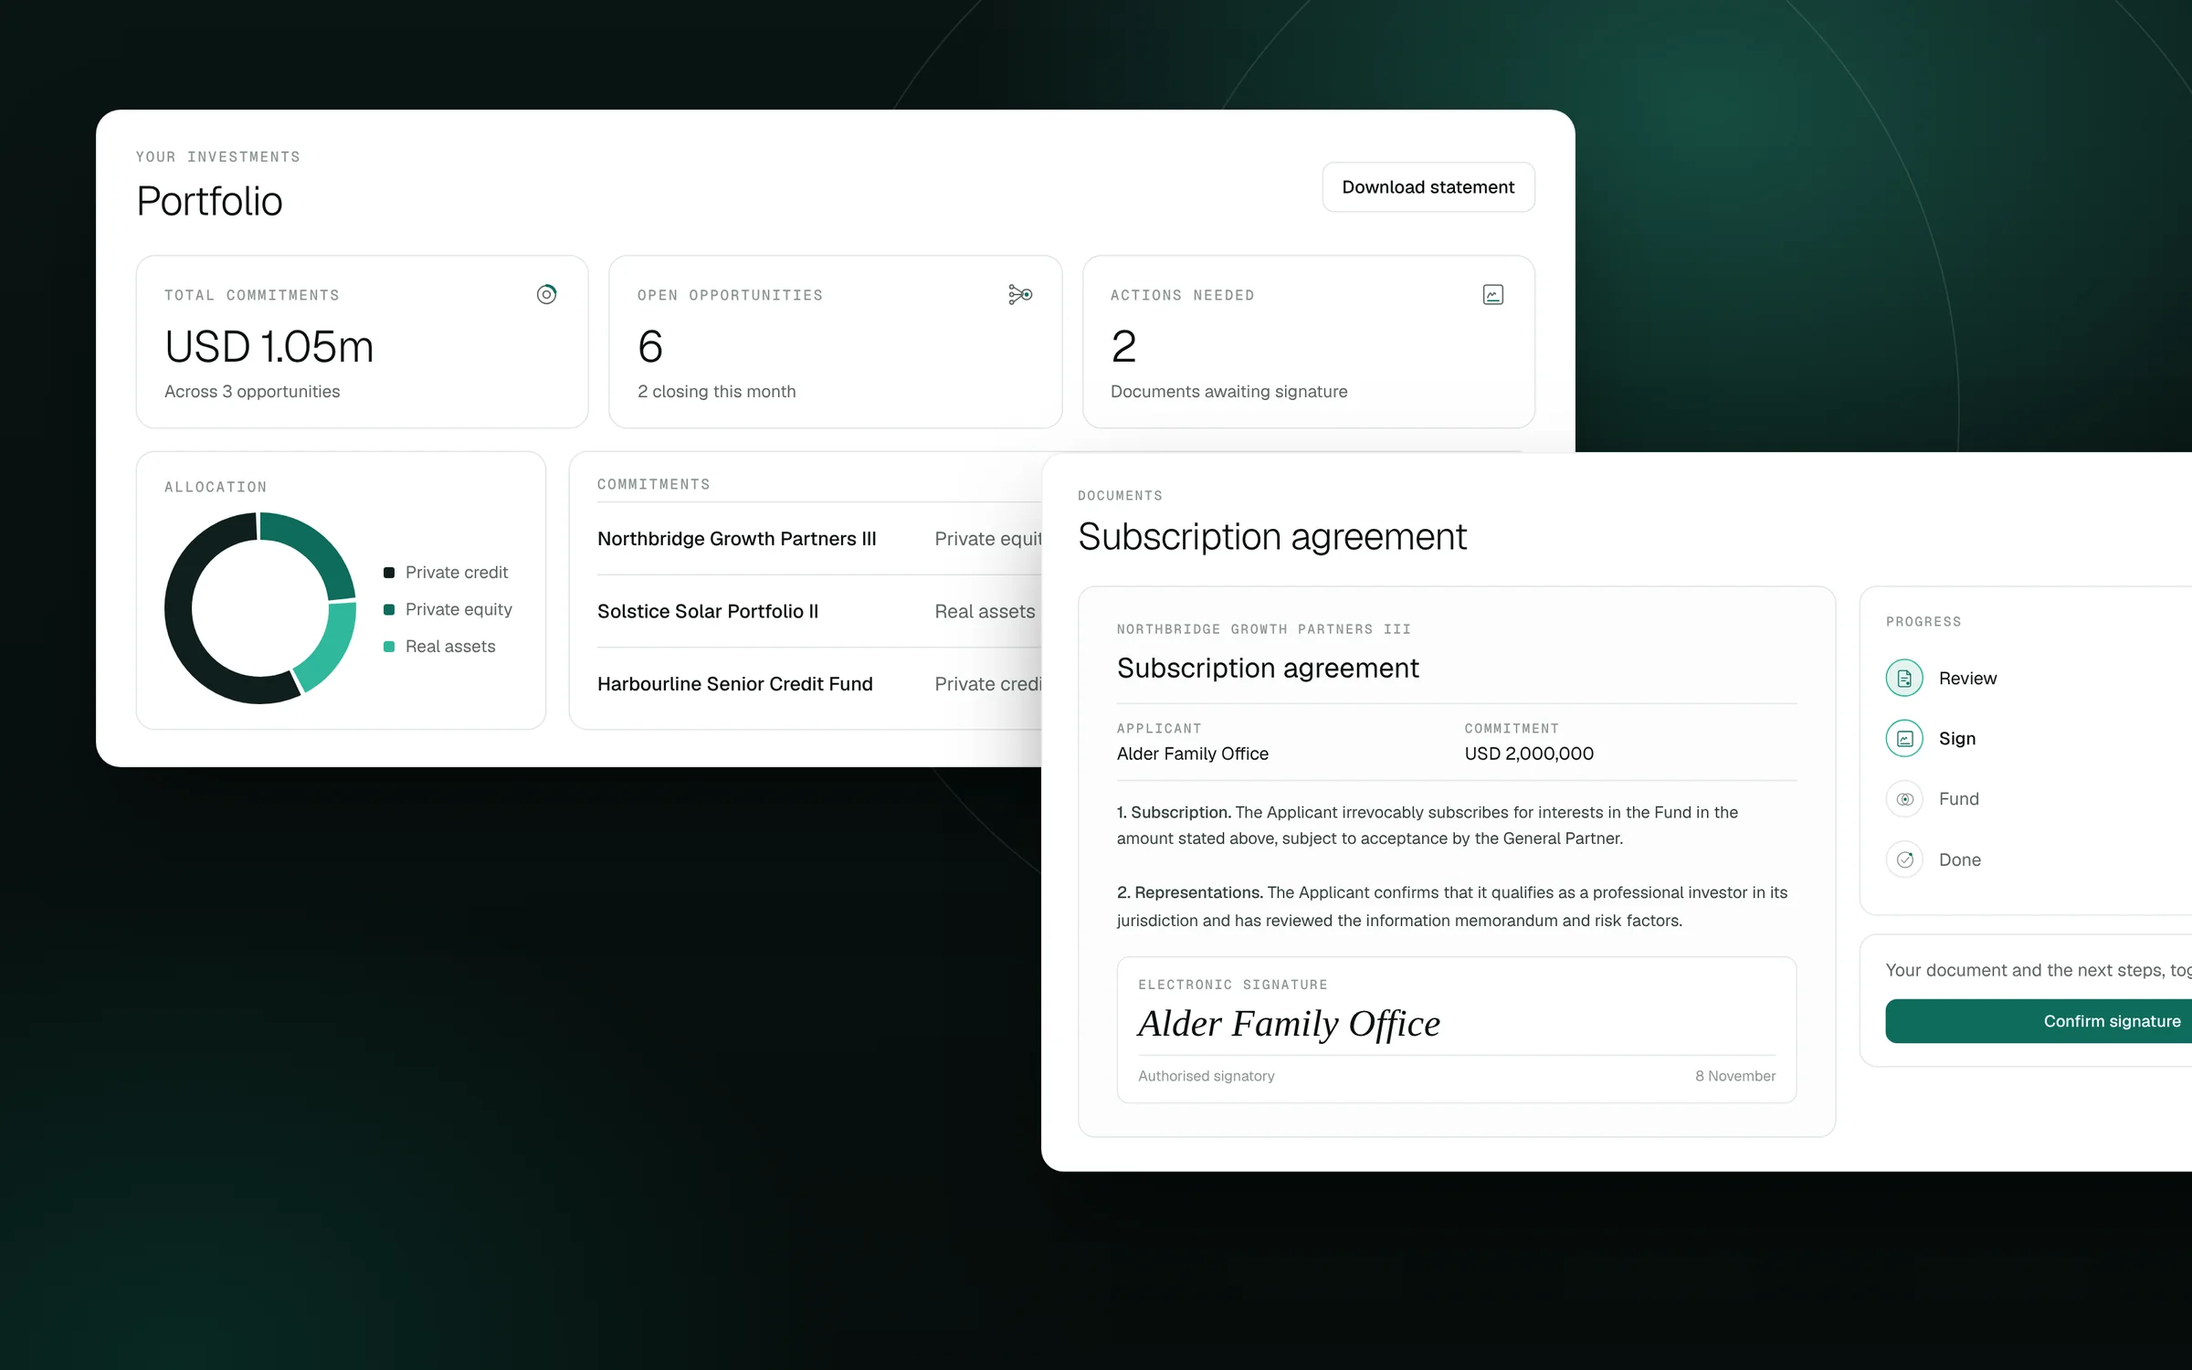
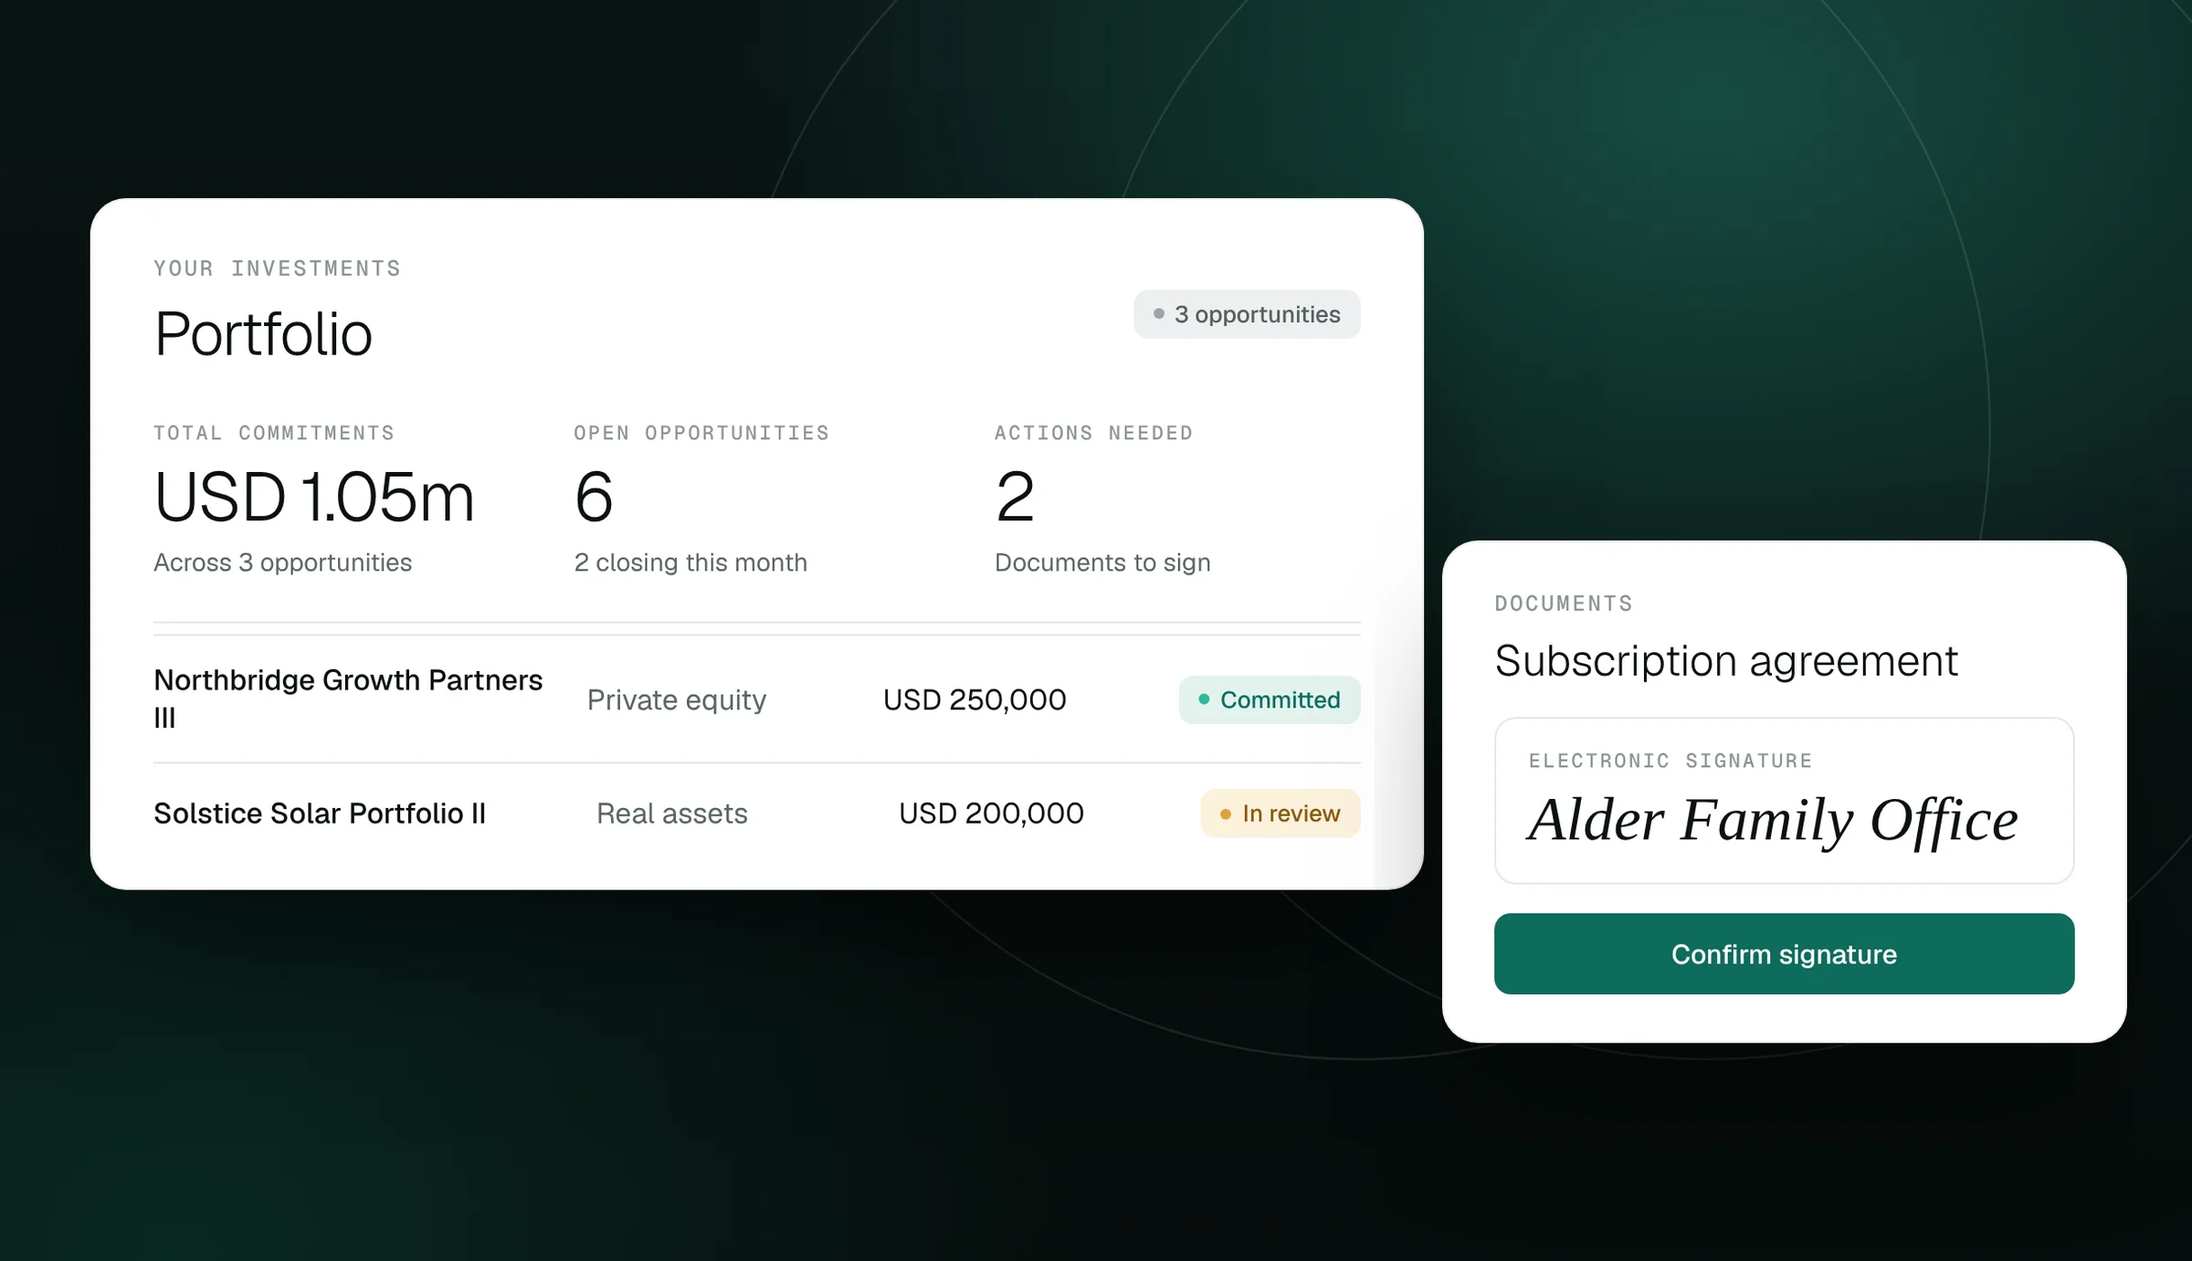
Brand kit: real-size product scenes (v2) and scene builder
Claude-Session: https://claude.ai/code/session_01Um1ZHPYmYJrYiMFS5V3asR

diff --git a/multiplier-brand-kit/design-system/product-scenes/build-scenes-v2.py b/multiplier-brand-kit/design-system/product-scenes/build-scenes-v2.py
@@ -1,0 +1,66 @@
+exec(open('build.py').read().split("# A rebuilt with wrapper")[0])
+def W(inner,w,pad="0 40px 56px 0",extra=''):
+    return f'<div class=wrap style="position:relative;display:inline-block;margin:50px 70px 90px 50px;width:{w}px">{inner}</div>'
+def cardx(inner,style=''):
+    return f'<div class=card style="border-radius:20px;{style}">{inner}</div>'
+def float_(inner,style=''):
+    return f'<div class=card style="position:absolute;border-radius:16px;box-shadow:0 2px 4px rgba(11,18,16,.05),0 30px 50px -14px rgba(11,18,16,.32);{style}">{inner}</div>'
+def tile(n,s=44,bg='#E3F2EE'):
+    return f'<span style="width:{s}px;height:{s}px;border-radius:12px;background:{bg};color:#0B1210;display:flex;align-items:center;justify-content:center;flex:none">{icon(n,int(s*.58))}</span>'
+def chip(t,c='g',sz=13): return f'<span class="chip {c}" style="font-size:{sz}px;padding:5px 11px"><i></i>{t}</span>'
+def bigfacts(a,b,c):
+    f=lambda l,v:f'<div><div class=mono style="font-size:11px;margin-bottom:6px">{l}</div><div style="font-size:19px;font-weight:500">{v}</div></div>'
+    return f'<div style="display:grid;grid-template-columns:repeat(3,1fr);gap:12px;border-top:1px solid var(--line);padding-top:16px">{f("Minimum",a)}{f("Target raise",b)}{f("Term",c)}</div>'
+# ---------- HERO 1 Home: one oversized deal card + peek + floating verification card
+h1=W(f'''<div style="position:absolute;left:34px;top:30px;right:-34px;height:100%;border-radius:20px;background:rgba(255,255,255,.62);border:1px solid rgba(11,18,16,.05)"></div>
+<div style="position:absolute;left:62px;top:60px;right:-62px;height:100%;border-radius:20px;background:rgba(255,255,255,.38);border:1px solid rgba(11,18,16,.04)"></div>
+{cardx(f'<div style="padding:30px 32px 66px;display:flex;flex-direction:column;gap:16px"><div style="display:flex;justify-content:space-between;align-items:center"><span class=mono style="font-size:12px">Private equity</span>{chip("Open")}</div><div style="font-size:30px;font-weight:300;letter-spacing:-.02em;line-height:1.12">Northbridge Growth Partners III</div><div style="font-size:16px;color:var(--mut);line-height:1.5">Control and minority growth investments in mid-market business services across Europe.</div><div class=bar style="height:7px"><b style="width:64%"></b></div>{bigfacts("USD 250,000","USD 120m","8 years")}</div>','position:relative')}
+{float_(f'<div style="display:flex;gap:14px;align-items:center;padding:16px 20px">{tile("verify",46)}<div><div style="font-size:16px;font-weight:500">Identity verified</div><div style="font-size:13.5px;color:var(--mut);margin-top:2px">Reused for every opportunity</div></div></div>','left:-34px;bottom:-46px;width:330px')}''',520)
+open('H1.html','w').write(page(h1,900,760))
+# ---------- HERO 2 Investors: oversized allocation + KPI + floating to-do
+h2=W(f'''<div style="position:absolute;left:34px;top:30px;right:-34px;height:100%;border-radius:20px;background:rgba(255,255,255,.62);border:1px solid rgba(11,18,16,.05)"></div>
+{cardx(f'<div style="padding:30px 32px 68px"><div style="display:flex;justify-content:space-between;align-items:flex-start;margin-bottom:22px"><div><div class=mono style="font-size:12px;margin-bottom:8px">Total commitments</div><div style="font-size:46px;font-weight:300;letter-spacing:-.03em;line-height:1">USD 1.05m</div></div>{chip("3 opportunities","d")}</div><div style="display:flex;align-items:center;gap:30px;border-top:1px solid var(--line);padding-top:22px">{donut([(24,"#0E6B5C"),(19,"#2FB89C"),(57,"#0F1F1D")],170,26)}<div style="display:flex;flex-direction:column;gap:16px;font-size:16px"><div style="display:flex;align-items:center;gap:12px"><i style="width:12px;height:12px;border-radius:3px;background:#0F1F1D"></i>Private credit</div><div style="display:flex;align-items:center;gap:12px"><i style="width:12px;height:12px;border-radius:3px;background:#0E6B5C"></i>Private equity</div><div style="display:flex;align-items:center;gap:12px"><i style="width:12px;height:12px;border-radius:3px;background:#2FB89C"></i>Real assets</div></div></div></div>','position:relative')}
+{float_(f'<div style="display:flex;gap:14px;align-items:center;padding:16px 20px">{tile("sign",46,"#FBF1DC")}<div><div style="font-size:16px;font-weight:500">2 documents to sign</div><div style="font-size:13.5px;color:var(--mut);margin-top:2px">Northbridge Growth Partners III</div></div></div>','left:-34px;bottom:-46px;width:340px')}''',520)
+open('H2.html','w').write(page(h2,900,760))
+# ---------- HERO 3 Sponsors: big funnel numbers
+def stat(n,l,hi=False):
+    return f'<div style="border-top:3px solid {"var(--teal)" if hi else "var(--line)"};padding-top:14px"><div style="font-size:52px;font-weight:300;letter-spacing:-.03em;line-height:1">{n}</div><div style="font-size:14.5px;color:var(--mut);margin-top:8px">{l}</div></div>'
+def inv(n,k,c,t):
+    return f'<div style="display:flex;align-items:center;gap:14px;padding:12px 0;border-top:1px solid var(--line)"><div class=av style="width:40px;height:40px;font-size:13px">{n.split()[0][0]}{n.split()[-1][0]}</div><div style="flex:1"><div style="font-size:16px;font-weight:500">{n}</div><div style="font-size:13.5px;color:var(--mut)">{k}</div></div>{chip(t,c,12.5)}</div>'
+h3=W(f'''<div style="position:absolute;left:34px;top:30px;right:-34px;height:100%;border-radius:20px;background:rgba(255,255,255,.62);border:1px solid rgba(11,18,16,.05)"></div>
+{cardx(f'<div style="padding:30px 32px 70px"><div style="display:flex;justify-content:space-between;align-items:center;margin-bottom:6px"><span class=mono style="font-size:12px">Raise overview</span>{chip("Open")}</div><div style="font-size:24px;font-weight:300;letter-spacing:-.015em;margin-bottom:24px">Northbridge Growth Partners III</div><div style="display:grid;grid-template-columns:repeat(3,1fr);gap:18px;margin-bottom:22px">{stat("48","Invited")}{stat("17","In review")}{stat("11","Committed",True)}</div>{inv("Alder Family Office","Family office","g","Committed")}{inv("Fenwick Capital","Investment firm","a","In review")}</div>','position:relative')}
+{float_(f'<div style="display:flex;gap:14px;align-items:center;padding:16px 20px">{tile("adviser",46)}<div><div style="font-size:16px;font-weight:500">Share with advisers</div><div style="font-size:13.5px;color:var(--mut);margin-top:2px">23 advisers introducing investors</div></div></div>','left:-34px;bottom:-46px;width:350px')}''',520)
+open('H3.html','w').write(page(h3,900,860))
+# ---------- HERO 4 Advisers: big client rows + onboarded once
+def cr(n,c,t,k):
+    return f'<div style="display:flex;align-items:center;gap:14px;padding:13px 0;border-top:1px solid var(--line)"><div class=av style="width:42px;height:42px;font-size:14px">{n.split()[0][0]}{n.split()[-1][0]}</div><div style="flex:1"><div style="font-size:17px;font-weight:500">{n}</div><div style="font-size:13.5px;color:var(--mut)">{c}</div></div>{chip(t,k,13)}</div>'
+h4=W(f'''<div style="position:absolute;left:34px;top:30px;right:-34px;height:100%;border-radius:20px;background:rgba(255,255,255,.62);border:1px solid rgba(11,18,16,.05)"></div>
+{cardx(f'<div style="padding:30px 32px 66px"><div style="display:flex;justify-content:space-between;align-items:flex-end;margin-bottom:20px"><div><div class=mono style="font-size:12px;margin-bottom:8px">Client relationships</div><div style="font-size:34px;font-weight:300;letter-spacing:-.02em;line-height:1">Clients</div></div><span style="font-size:14px;color:var(--mut)">6 clients</span></div>{cr("Amira Haddad","United Arab Emirates","Verified","g")}{cr("Daniel Okafor","United Kingdom","Verified","g")}{cr("Wei Lim","Malaysia","In review","a")}{cr("Sofia Reyes","Mexico","Invited","d")}</div>','position:relative')}
+{float_(f'<div style="display:flex;gap:14px;align-items:center;padding:16px 20px">{tile("onboard",46)}<div><div style="font-size:16px;font-weight:500">Onboarded once</div><div style="font-size:13.5px;color:var(--mut);margin-top:2px">One profile, every opportunity</div></div></div>','left:-34px;bottom:-46px;width:340px')}''',520)
+open('H4.html','w').write(page(h4,900,880))
+# ---------- REQUEST sidebar 470
+def rs(n,i,t,sub,act):
+    return f'<div style="display:flex;gap:16px;align-items:center;padding:14px 0;border-top:1px solid var(--line)">{tile(i,48,"#E3F2EE" if act else "#F2F4F3")}<div><div style="font-size:17px;font-weight:{500 if act else 400}">{t}</div><div style="font-size:13.5px;color:var(--mut);margin-top:2px">{sub}</div></div></div>'
+rq=W(f'''<div style="position:absolute;left:30px;top:26px;right:-30px;height:100%;border-radius:20px;background:rgba(255,255,255,.62);border:1px solid rgba(11,18,16,.05)"></div>
+{cardx(f'<div style="padding:26px 28px 14px"><div class=mono style="font-size:12px;margin-bottom:8px">What happens next</div><div style="font-size:26px;font-weight:300;letter-spacing:-.02em;margin-bottom:16px">A clear path to access</div>{rs(1,"review","We review your details","A member of our team reads your request",True)}{rs(2,"mail","We get in touch","A short call or an onboarding link",False)}{rs(3,"access","Verification and access","Your status is confirmed once",False)}</div>','position:relative')}''',440)
+open('RQ.html','w').write(page(rq,800,640))
+# ---------- Section panels designed at real width
+def panel_bg(w,h): return f'<div style="position:absolute;inset:0;{BG}"></div><svg style="position:absolute;inset:0" width={w} height={h} fill=none stroke="rgba(255,255,255,.10)" stroke-width=1.2><circle cx={w*.78} cy={h*.34} r={h*.5} /><circle cx={w*.62} cy={h*.34} r={h*.5} /></svg>'
+BG='background:radial-gradient(900px 640px at 78% 8%,rgba(47,184,156,.34),transparent 60%),radial-gradient(800px 600px at 8% 100%,rgba(14,107,92,.30),transparent 62%),linear-gradient(180deg,#0A1514,#060C0B)'
+def dcard(inner,x,y,w,z=1,style=''):
+    return f'<div class=card style="position:absolute;left:{x}px;top:{y}px;width:{w}px;border-radius:20px;z-index:{z};box-shadow:0 40px 80px -20px rgba(0,0,0,.6);{style}">{inner}</div>'
+def kp(l,v,s): return f'<div style="flex:1;padding:6px 0"><div class=mono style="font-size:11px;margin-bottom:10px">{l}</div><div style="font-size:38px;font-weight:300;letter-spacing:-.03em;line-height:1">{v}</div><div style="font-size:14px;color:var(--mut);margin-top:8px">{s}</div></div>'
+def lrow(n,c,a,t,k): return f'<div style="display:grid;grid-template-columns:1.5fr 1fr 1fr auto;gap:12px;align-items:center;padding:14px 0;border-top:1px solid var(--line);font-size:16px"><span style="font-weight:500">{n}</span><span style="color:var(--mut)">{c}</span><span>{a}</span>{chip(t,k,13)}</div>'
+GW,GH=1216,700
+Gp=f'<div style="position:relative;width:{GW}px;height:{GH}px;overflow:hidden;{BG}">'+panel_bg(GW,GH)+dcard(f'<div style="padding:30px 34px 14px"><div style="display:flex;justify-content:space-between;align-items:center;margin-bottom:20px"><div><div class=mono style="font-size:12px;margin-bottom:6px">Your investments</div><div style="font-size:34px;font-weight:300;letter-spacing:-.02em">Portfolio</div></div>{chip("3 opportunities","d")}</div><div style="display:flex;gap:30px;border-bottom:1px solid var(--line);padding-bottom:18px;margin-bottom:6px">{kp("Total commitments","USD 1.05m","Across 3 opportunities")}{kp("Open opportunities","6","2 closing this month")}{kp("Actions needed","2","Documents to sign")}</div>{lrow("Northbridge Growth Partners III","Private equity","USD 250,000","Committed","g")}{lrow("Solstice Solar Portfolio II","Real assets","USD 200,000","In review","a")}</div>',50,110,740,1)+dcard(f'<div style="padding:26px 28px"><div class=mono style="font-size:12px;margin-bottom:8px">Documents</div><div style="font-size:24px;font-weight:300;margin-bottom:16px">Subscription agreement</div><div style="border:1px solid var(--line);border-radius:12px;padding:16px 18px;margin-bottom:16px"><div class=mono style="font-size:11px;margin-bottom:8px">Electronic signature</div><div style="font-family:Georgia,serif;font-style:italic;font-size:34px;line-height:1.1">Alder Family Office</div></div><span class=btn style="width:100%;justify-content:center;font-size:15px;padding:13px">Confirm signature</span></div>',800,300,380,2)+'</div>'
+open('G2.html','w').write(page(Gp,GW,GH,'#060C0B'))
+def colx(t,n,rows,hi):
+    return f'<div style="border-top:3px solid {"var(--teal)" if hi else "var(--line)"};padding-top:12px"><div style="display:flex;justify-content:space-between;margin-bottom:12px"><span style="font-size:17px;font-weight:500">{t}</span><span style="font-size:22px;font-weight:300">{n}</span></div>'+''.join(f'<div style="display:flex;align-items:center;gap:12px;border:1px solid var(--line);border-radius:12px;padding:11px 14px;margin-bottom:10px"><div class=av style="width:36px;height:36px">{r[0][0]}{r[0].split()[-1][0]}</div><div><div style="font-size:15px;font-weight:500">{r[0]}</div><div style="font-size:13px;color:var(--mut)">{r[1]}</div></div></div>' for r in rows)+'</div>'
+Hp=f'<div style="position:relative;width:{GW}px;height:{GH}px;overflow:hidden;{BG}">'+panel_bg(GW,GH)+dcard(f'<div style="padding:30px 34px 18px"><div style="display:flex;justify-content:space-between;align-items:center;margin-bottom:22px"><div><div class=mono style="font-size:12px;margin-bottom:6px">Raise overview</div><div style="font-size:32px;font-weight:300;letter-spacing:-.02em">Northbridge Growth Partners III</div></div><div style="display:flex;gap:10px">{chip("Open")}<span class=btn style="font-size:14px;padding:11px 16px">Share with advisers</span></div></div><div style="display:grid;grid-template-columns:repeat(3,1fr);gap:22px">{colx("Invited","48",[("Alder Family Office","Family office"),("Kestrel Partners","Investment firm")],False)}{colx("In review","17",[("Fenwick Capital","Investment firm"),("Blue Quay Advisory","Adviser-led")],False)}{colx("Committed","11",[("Sandhurst Trust","Foundation"),("Oakmere Holdings","Family office")],True)}</div></div>',40,80,800,1)+dcard(f'<div style="padding:24px 26px"><div class=mono style="font-size:12px;margin-bottom:8px">Investor view</div><div style="font-size:22px;font-weight:300;margin-bottom:14px">Opportunities</div><div style="font-size:19px;font-weight:400;margin-bottom:6px">Harbourline Senior Credit Fund</div><div style="font-size:14.5px;color:var(--mut);line-height:1.5;margin-bottom:14px">Senior secured loans to sponsor-backed mid-market borrowers.</div><div class=bar style="height:6px;margin-bottom:14px"><b style="width:41%"></b></div><div style="display:flex;justify-content:space-between;font-size:15px"><span>Minimum <b style="font-weight:500">USD 500,000</b></span>{chip("Open","g",12.5)}</div></div>',860,330,330,2)+'</div>'
+open('H2p.html','w').write(page(Hp,GW,GH,'#060C0B'))
+# ---------- Section panels on bg-alt at real width (1100): document and onboarding
+def stepcol():
+    return ''.join(f'<div style="display:flex;align-items:center;gap:14px;padding:13px 0;font-size:17px;{"font-weight:500;" if s=="Sign" else "color:var(--mut);" if s in ("Fund","Done") else ""}">{tile(i,44,"#E3F2EE" if s in ("Review","Sign") else "#F2F4F3")}{s}</div>' for s,i in (("Review","review"),("Sign","sign"),("Fund","fund"),("Done","verify")))
+Dd=W(f'''<div style="position:absolute;left:30px;top:26px;right:-30px;height:100%;border-radius:20px;background:rgba(255,255,255,.62);border:1px solid rgba(11,18,16,.05)"></div>
+{cardx(f'<div style="display:grid;grid-template-columns:1.5fr 1fr;gap:0"><div style="padding:34px 38px;border-right:1px solid var(--line)"><div class=mono style="font-size:12px;margin-bottom:10px">Northbridge Growth Partners III</div><div style="font-size:30px;font-weight:300;letter-spacing:-.02em;margin-bottom:18px">Subscription agreement</div><div style="display:grid;grid-template-columns:1fr 1fr;gap:16px;padding:16px 0;border-top:1px solid var(--line);border-bottom:1px solid var(--line);margin-bottom:18px"><div><div class=mono style="font-size:11px;margin-bottom:6px">Applicant</div><div style="font-size:17px">Alder Family Office</div></div><div><div class=mono style="font-size:11px;margin-bottom:6px">Commitment</div><div style="font-size:17px">USD 2,000,000</div></div></div><div style="font-size:15px;line-height:1.65;color:#33423E;margin-bottom:20px"><b style="font-weight:500">1. Subscription.</b> The Applicant subscribes for interests in the Fund in the amount stated above, subject to acceptance.</div><div style="border:1px solid var(--line);border-radius:12px;padding:16px 20px"><div class=mono style="font-size:11px;margin-bottom:8px">Electronic signature</div><div style="font-family:Georgia,serif;font-style:italic;font-size:38px;line-height:1.1">Alder Family Office</div></div></div><div style="padding:34px 32px;display:flex;flex-direction:column"><div class=mono style="font-size:12px;margin-bottom:8px">Progress</div>{stepcol()}<span class=btn style="margin-top:auto;justify-content:center;font-size:15px;padding:13px">Confirm signature</span></div></div>','position:relative')}''',1000)
+open('Dd.html','w').write(page(Dd,1200,700))
